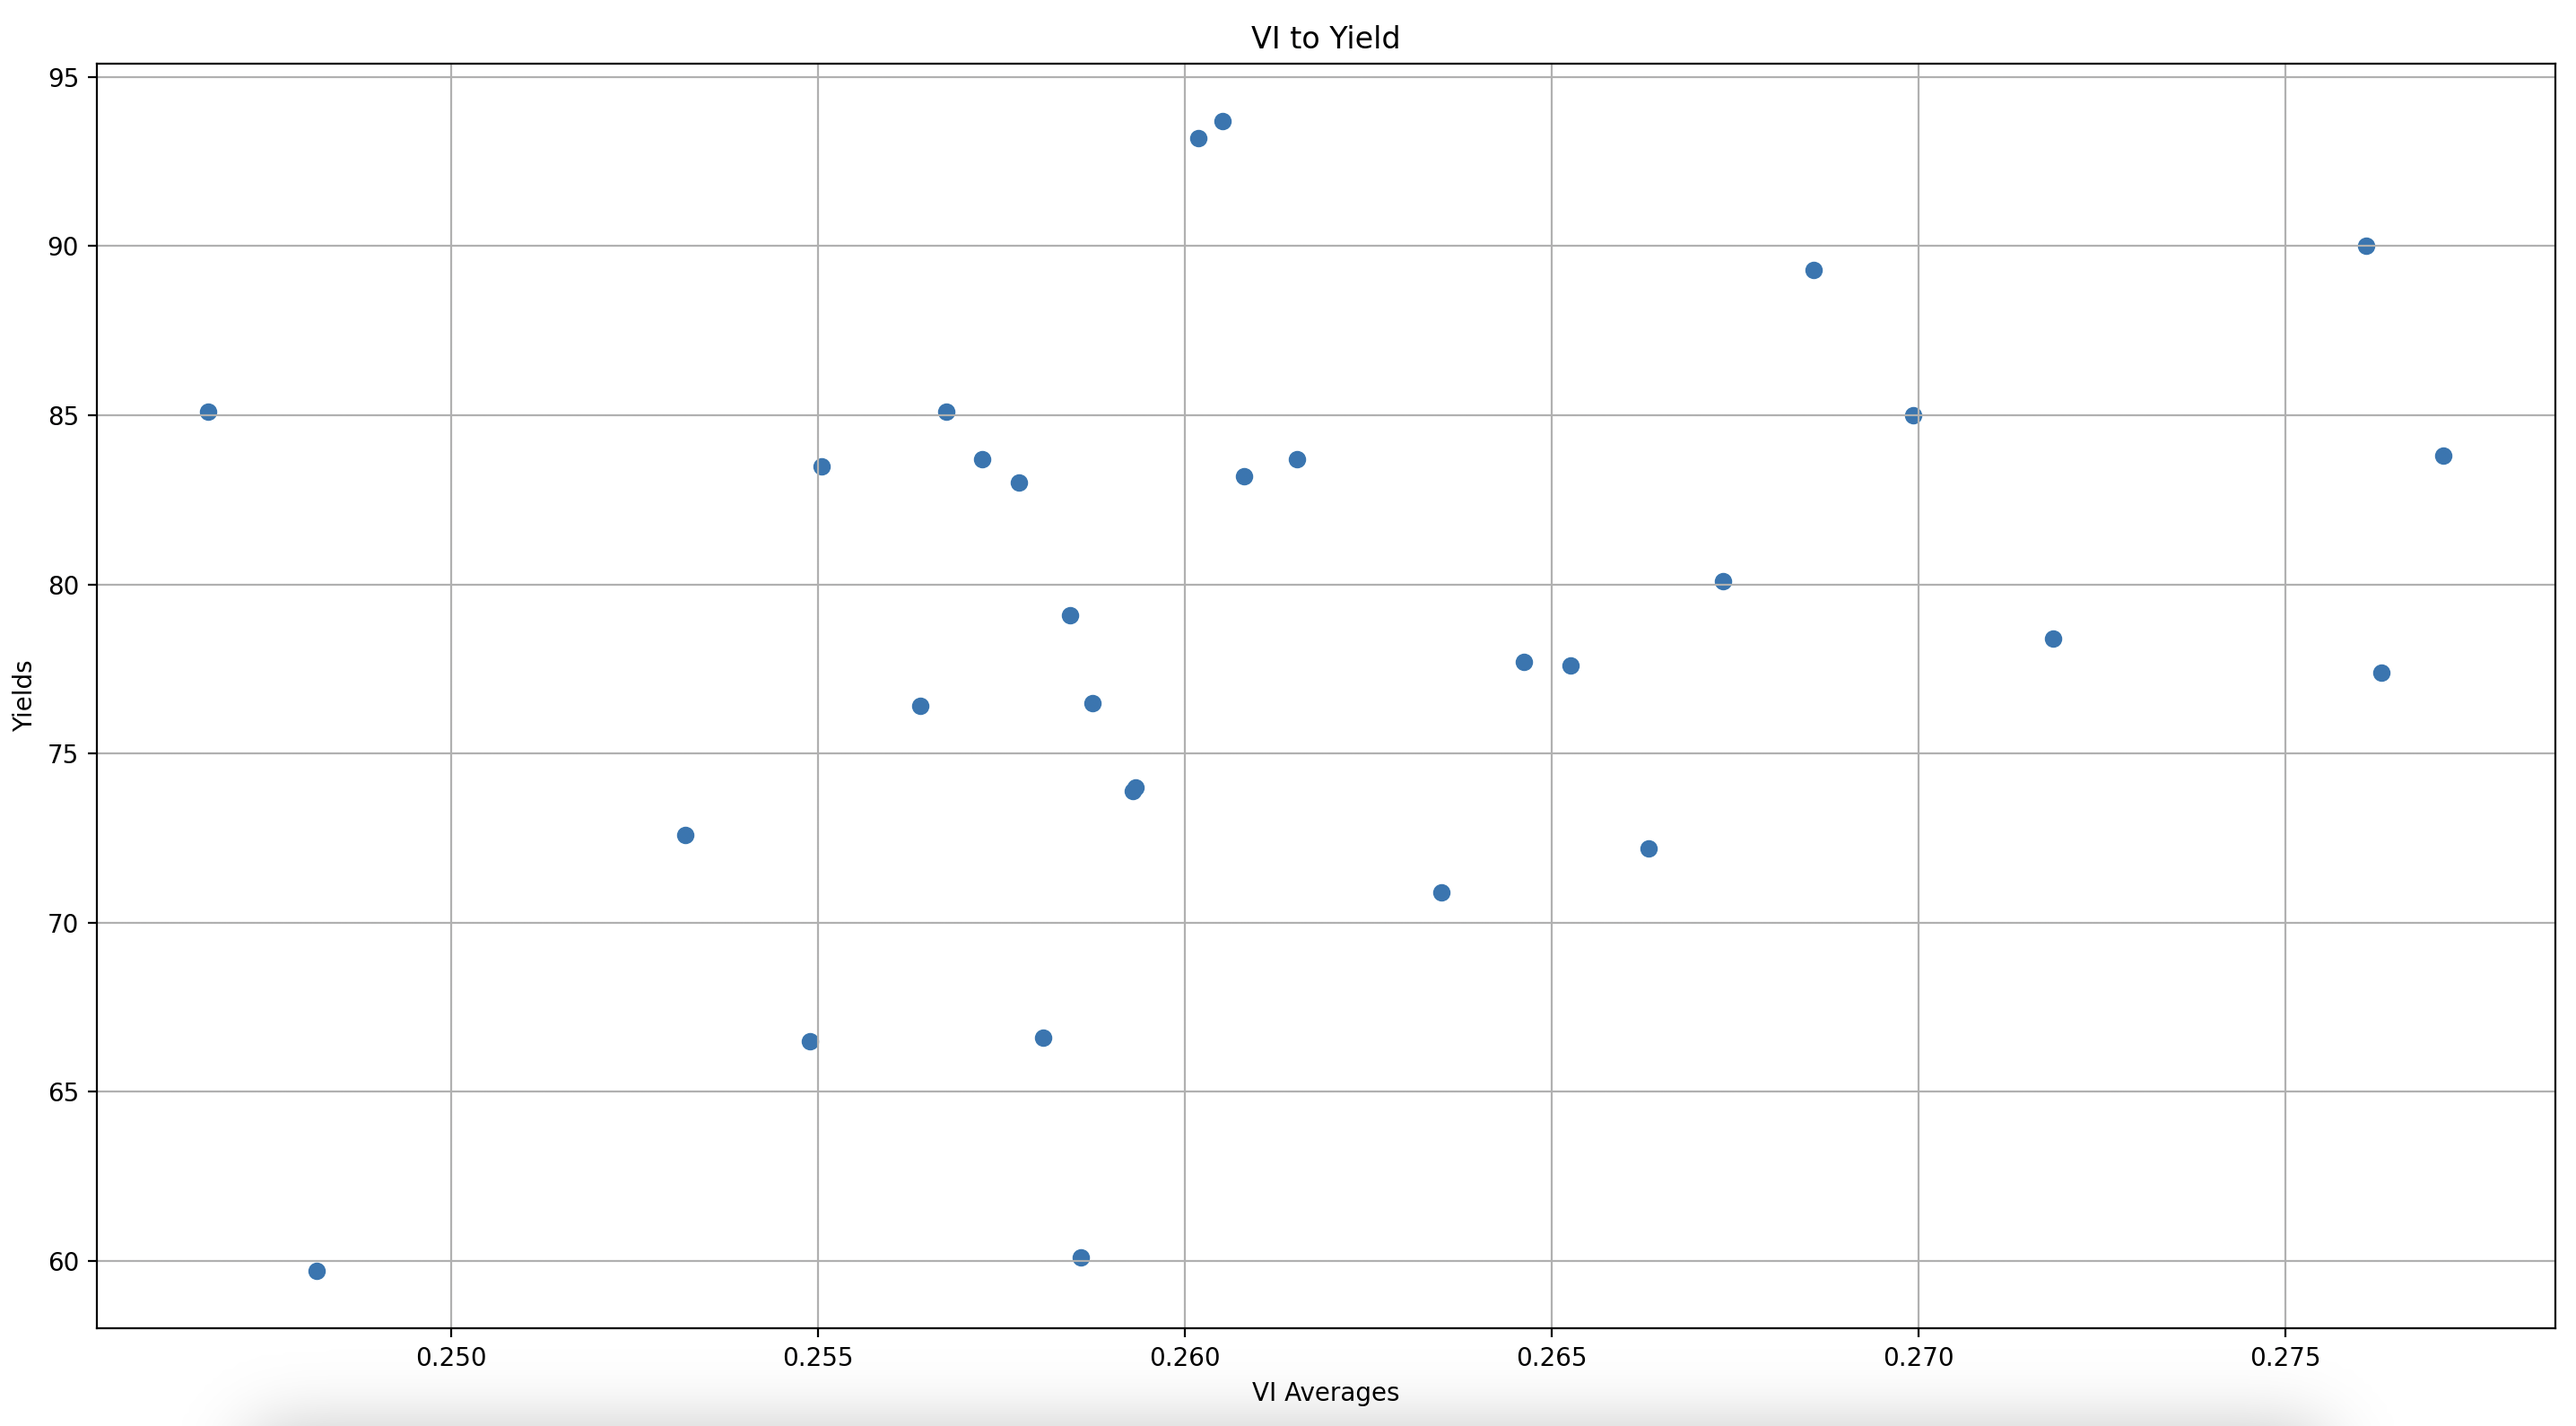
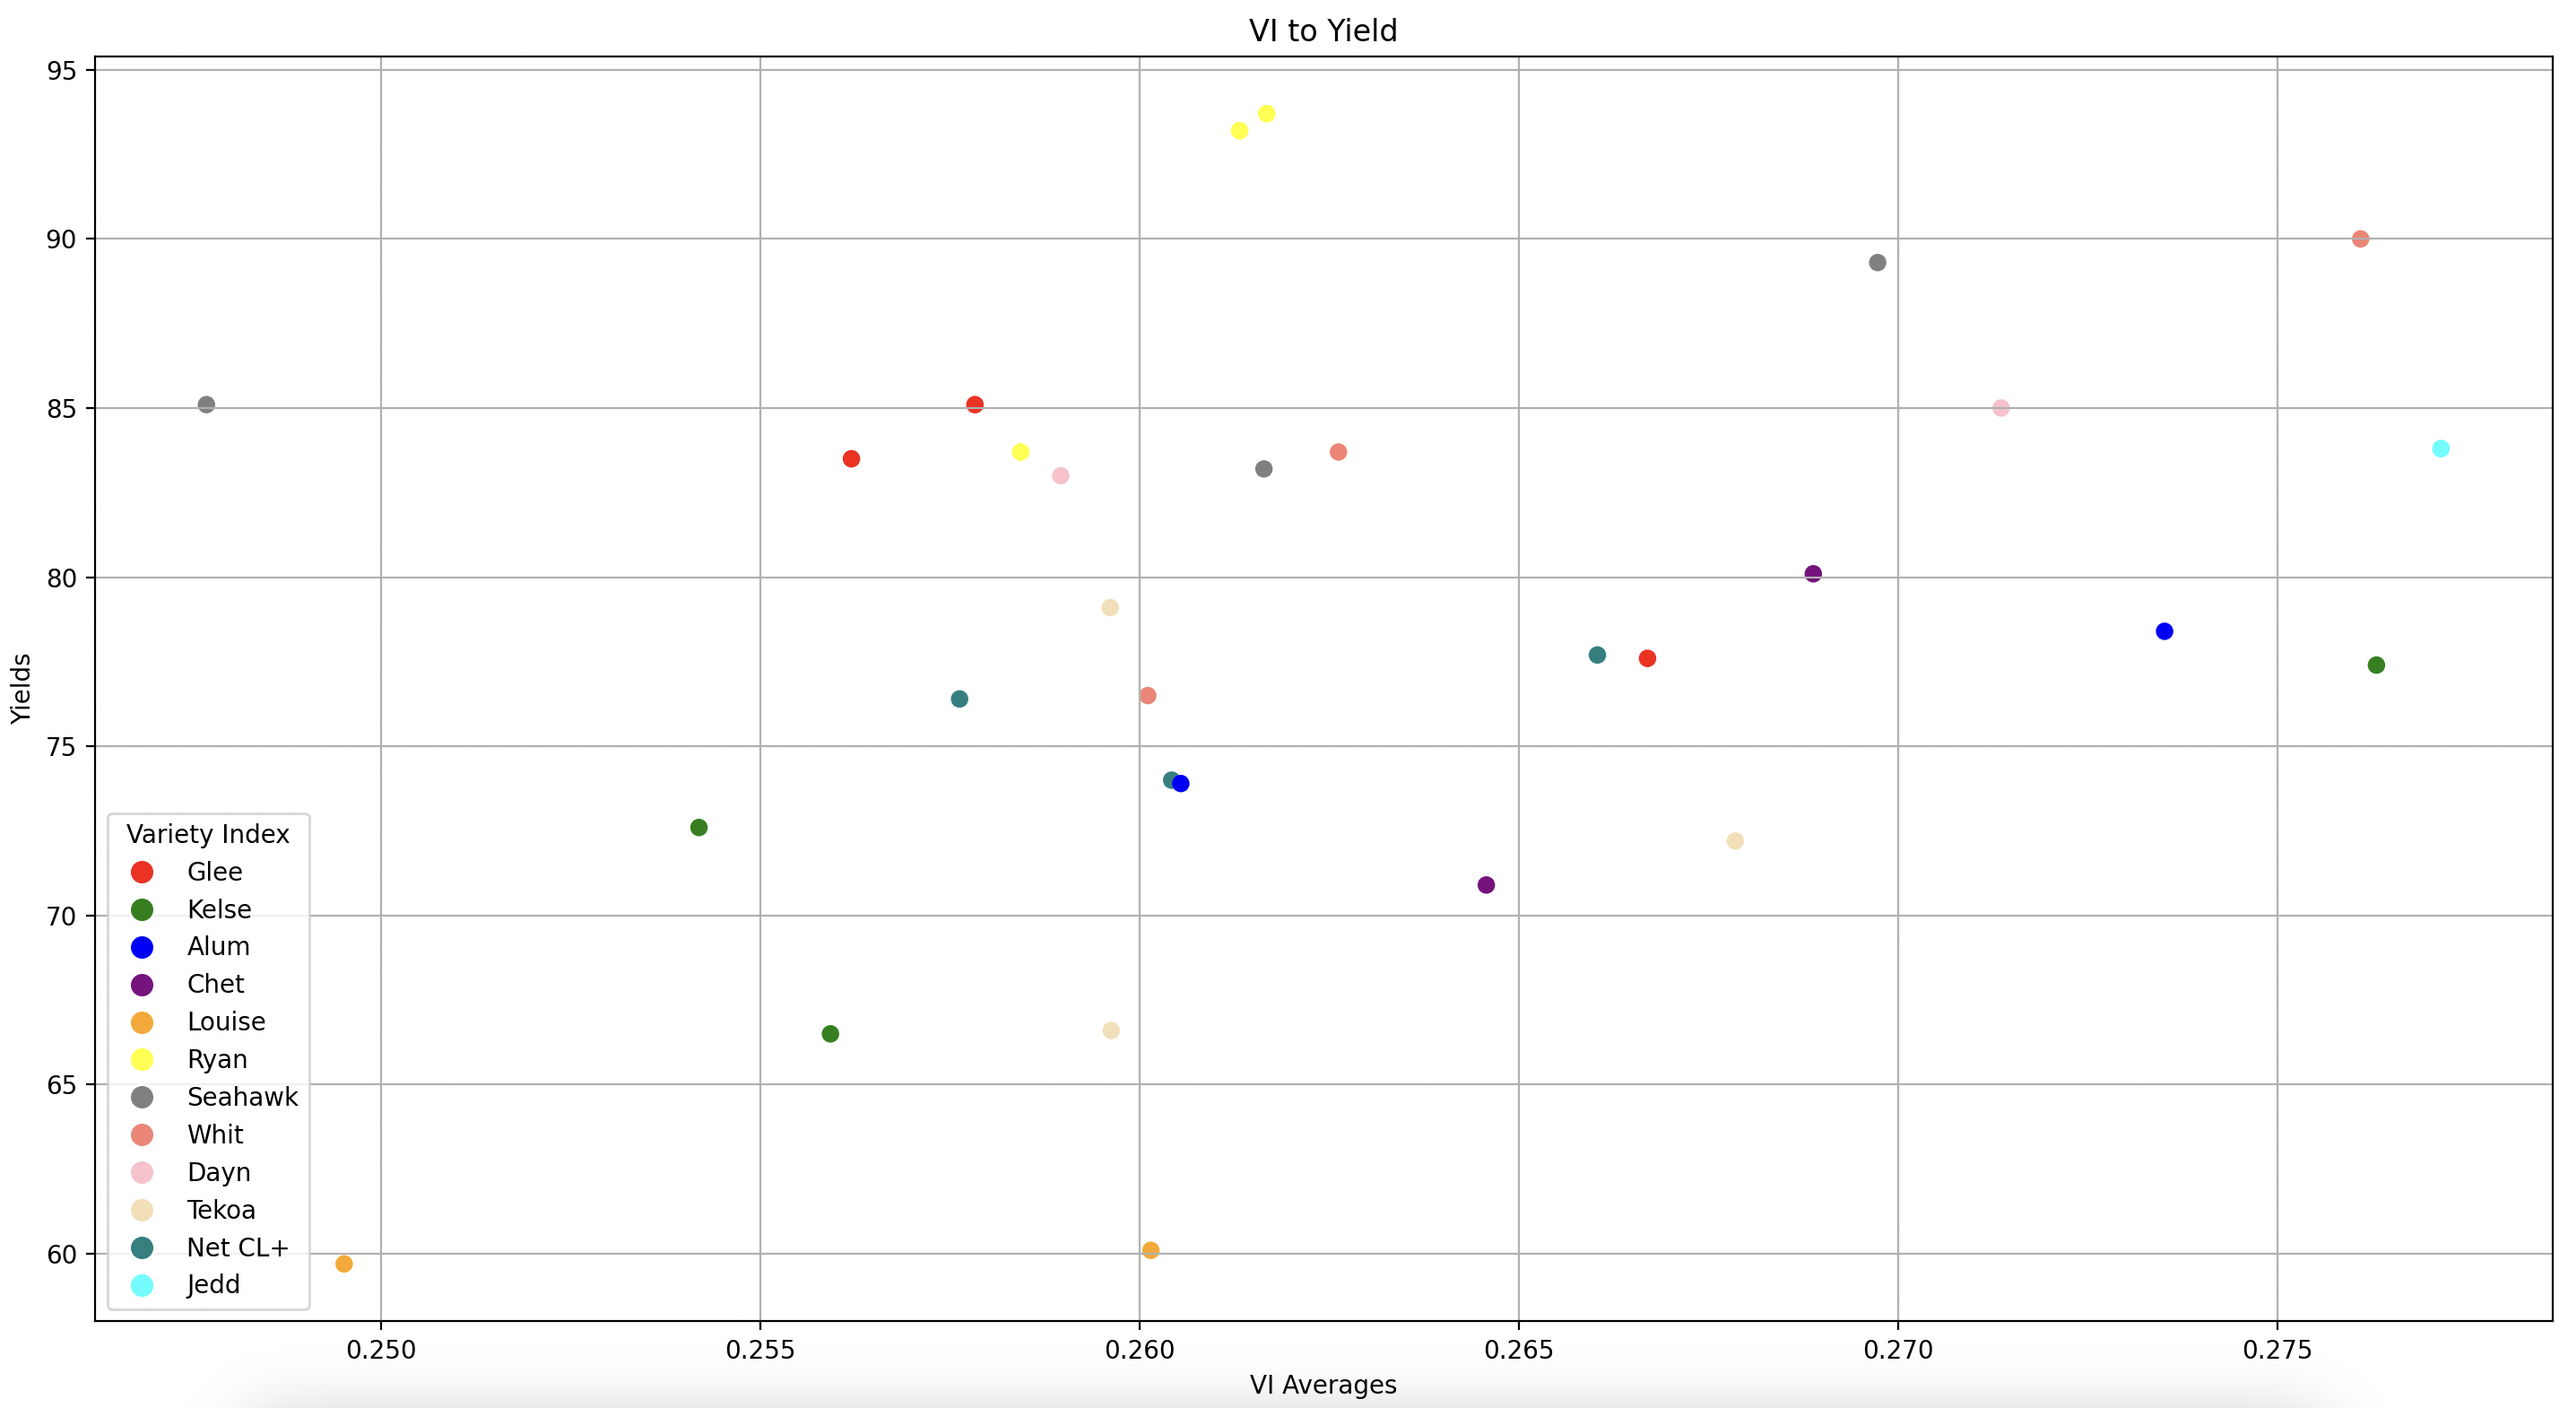
Updating project notes' correlations

diff --git a/Helpers/visualizer.py b/Helpers/visualizer.py
@@ -1,5 +1,6 @@
 import matplotlib.pyplot as plt
 import matplotlib.patches as mpatches
+from matplotlib.lines import Line2D
 
 from scipy.stats import pearsonr, spearmanr
 from DataStructures.plot import Plot
@@ -442,7 +443,7 @@ class Visualizer:
         plt.show()
 
     @staticmethod
-    def visualize_correspondence(plots: list[Plot]) -> None:
+    def visualize_avg_vi_correspondence(plots: list[Plot]) -> None:
         """
         Create a graph of the correspondence between the average vi and the yield
         :param plots: list[Plot] - list of plots to create correspondence from
@@ -457,6 +458,23 @@ class Visualizer:
                 count += 1
                 total += data_points[i].vi_state.vi_mean
             return total / count
+
+        season = plots[0].data_points[0].season_type
+        # Define a color map based on variety_index
+        color_map = {
+            0: 'red',
+            1: 'green',
+            2: 'blue',
+            3: 'purple',
+            4: 'orange',
+            5: 'yellow',
+            6: 'gray',
+            7: 'salmon',
+            8: 'pink',
+            9: 'wheat',
+            10: 'teal',
+            11: 'cyan'
+        }
 
         # Best vals
         best_corr = 0
@@ -488,16 +506,103 @@ class Visualizer:
 
         vi_avgs = []
         yields = []
+        colors = []
         for p in plots:
+            colors.append(color_map.get(p.variety_index - 1, 'black'))
             vi_avgs.append(get_avg_vi(p.data_points, best_offset, best_offset + best_split_size))
             yields.append(p.crop_yield)
 
         # Create the plot
         plt.figure(figsize=(16, 8))
-        plt.scatter(vi_avgs, yields, marker='o')
+        plt.scatter(vi_avgs, yields, c=colors, marker='o')
+
+        # Create custom legend handles
+        if season == "winter":
+            legend_elements = [
+                Line2D([0], [0], marker='o', color='w', markerfacecolor=color,
+                       markersize=10, label=f'{winter_variety_map[i]}')
+                for i, color in color_map.items()
+            ]
+        else:
+            legend_elements = [
+                Line2D([0], [0], marker='o', color='w', markerfacecolor=color,
+                       markersize=10, label=f'{spring_variety_map[i]}')
+                for i, color in color_map.items()
+            ]
+        plt.legend(handles=legend_elements, title="Variety Index")
 
         # Customize the plot
         plt.xlabel('VI Averages')
+        plt.ylabel('Yields')
+        plt.title('VI to Yield')
+        plt.tight_layout()
+        plt.grid(True)
+
+        # Display the plot
+        plt.show()
+
+    @staticmethod
+    def visualize_heading_date_correlation(plots: list[Plot]) -> None:
+        """
+        Create a graph of the correspondence between the VI at the heading date and the yield
+        :param plots: list[Plot] - list of plots to create correspondence from
+        :return: None
+        """
+        def get_vi_at_heading_date(data_points: list, heading_date: int):
+            for dp in data_points:
+                if dp.date == heading_date:
+                    return dp.vi_state.vi_mean
+            return None
+        season = plots[0].data_points[0].season_type
+        # Define a color map based on variety_index
+        color_map = {
+            0: 'red',
+            1: 'green',
+            2: 'blue',
+            3: 'purple',
+            4: 'orange',
+            5: 'yellow',
+            6: 'gray',
+            7: 'salmon',
+            8: 'pink',
+            9: 'wheat',
+            10: 'teal',
+            11: 'cyan'
+        }
+
+        vi_vals = []
+        yields = []
+        colors = []
+        for p in plots:
+            colors.append(color_map.get(p.variety_index - 1, 'black'))
+            vi_vals.append(get_vi_at_heading_date(p.data_points, p.heading_date))
+            yields.append(p.crop_yield)
+
+        # Pearson Correlation
+        pearson_corr, _ = pearsonr(vi_vals, yields)
+        print(f'VI at heading date correlation: {pearson_corr}')
+
+        # Create the plot
+        plt.figure(figsize=(16, 8))
+        plt.scatter(vi_vals, yields, c=colors, marker='o')
+
+        # Create custom legend handles
+        if season == "winter":
+            legend_elements = [
+                Line2D([0], [0], marker='o', color='w', markerfacecolor=color,
+                       markersize=10, label=f'{winter_variety_map[i]}')
+                for i, color in color_map.items()
+            ]
+        else:
+            legend_elements = [
+                Line2D([0], [0], marker='o', color='w', markerfacecolor=color,
+                       markersize=10, label=f'{spring_variety_map[i]}')
+                for i, color in color_map.items()
+            ]
+        plt.legend(handles=legend_elements, title="Variety Index")
+
+        # Customize the plot
+        plt.xlabel('VI at Heading date')
         plt.ylabel('Yields')
         plt.title('VI to Yield')
         plt.tight_layout()

diff --git a/main.py b/main.py
@@ -53,9 +53,9 @@ if __name__ == '__main__':
     # target_variety = "Glee"
     # Visual settings
     visualizer.line_mode = True
-    visualizer.point_mode = True
+    # visualizer.point_mode = True
     # Data selection
-    # visualizer.show_vi_mean = True
+    visualizer.show_vi_mean = True
     # visualizer.show_air_temp = True
     # visualizer.show_dew_point = True
     # visualizer.show_relative_humidity = True
@@ -70,17 +70,17 @@ if __name__ == '__main__':
     visualizer.show_yield = True
     visualizer.show_prediction = True
 
-    # Test the model
-    data_handler.make_predictions_for_test_sets(learning_model)
-    total_accuracies = []
-    for prediction_tup, accuracies_tup in zip(data_handler.predictions, data_handler.accuracies):
-        entry_bloc_pairs = [(prediction_tup[1], prediction_tup[2])]
-        acc = sum(accuracies_tup[0]) / len(accuracies_tup[0])
-        total_accuracies.append(acc)
-        print(f'Average percent error: {acc}')
-        visualizer.visualize_plots(plots, entry_bloc_pairs, prediction_tup[0])
-        print()
-    print(f'Model average percent error: {sum(total_accuracies) / len(total_accuracies)}')
+    # # Test the model and show results
+    # data_handler.make_predictions_for_test_sets(learning_model)
+    # total_accuracies = []
+    # for prediction_tup, accuracies_tup in zip(data_handler.predictions, data_handler.accuracies):
+    #     entry_bloc_pairs = [(prediction_tup[1], prediction_tup[2])]
+    #     acc = sum(accuracies_tup[0]) / len(accuracies_tup[0])
+    #     total_accuracies.append(acc)
+    #     print(f'Average percent error: {acc}')
+    #     visualizer.visualize_plots(plots, entry_bloc_pairs, prediction_tup[0])
+    #     print()
+    # print(f'Model average percent error: {sum(total_accuracies) / len(total_accuracies)}')
 
     # Visualize plot
     # visualizer.visualize_plots(plots, [(1, 1)])
@@ -89,7 +89,10 @@ if __name__ == '__main__':
     # visualizer.visualize_variety(plots, target_variety)
 
     # Visualize all plots
-    # visualizer.visualize_num_plots(plots, 20)
+    # visualizer.visualize_num_plots(plots, 3)
 
-    # Visualize correspondence
-    # visualizer.visualize_correspondence(plots)
+    # Visualize correspondence with averaged VI's
+    visualizer.visualize_avg_vi_correspondence(plots)
+
+    # Visualize correspondence with VI at heading date
+    # visualizer.visualize_heading_date_correlation(plots)

diff --git a/ProjectNotes.md b/ProjectNotes.md
@@ -2,6 +2,9 @@
 # Project Notes:
 
 * Spring wheat crop was planted on the 25th of April
+* The year the data was taken from (2022) held favorable conditions for all crops so crop conditions,
+including VI's, were more homogeneous than what is usually expected. The low variance in the VI from 2022's
+data may influence the accuracy of the ML models predicting the yield.
 * Vegetation index (vi) formula names: cigreen0, cigreen, evi2, gndvi0, gndvi, ndvi, rdvi, savi, sr
 * The vi used will only be the 'mean' value for each data point
 * Labels in full data and ground truth data: variety_index <-> variety <-> ENTRY | replication_variety <-> BLOC
@@ -592,10 +595,10 @@ missing data, then linear interpolation was used.
 
 **Model1: Trained on raw training data (saved in saved_data_1.txt)**
 * spring_ndvi_vi_mean_stacked_model1
-  * Performs worse compared to vanilla model 1 when testing on unseen data
+  * Performance: 
 
 * spring_ndvi_vi_mean_vanilla_model1
-  * Performs relatively well on unseen data
+  * Performance: 
 
 **Model2: Trained on cut training data (form of SMOTE) (saved in saved_data_2.txt)**
 * spring_ndvi_vi_mean_stacked_model2
@@ -614,9 +617,20 @@ missing data, then linear interpolation was used.
 
 ### VI to Yield Correlation Notes:
 
-* Full average VI correlation:
+* Spring full data average VI correlation:
 ![FullVItoYield.png](Images%2FFullVItoYield.png)
 
 
 	Pearson correlation coefficient: 0.30116682760560815
-	Spearman rank correlation coefficient: 0.27636849816390957
+
+* Spring best split size (4) VI correlation:
+![BestSplitSizeVItoYield.png](Images%2FBestSplitSizeVItoYield.png)
+
+
+	Pearson correlation coefficient: 0.5023050212781351
+
+* Spring heading data VI correlation: 
+![HeadingDateVItoYield.png](Images%2FHeadingDateVItoYield.png)
+
+
+	Pearson correlation coefficient: -0.5137212880130718
